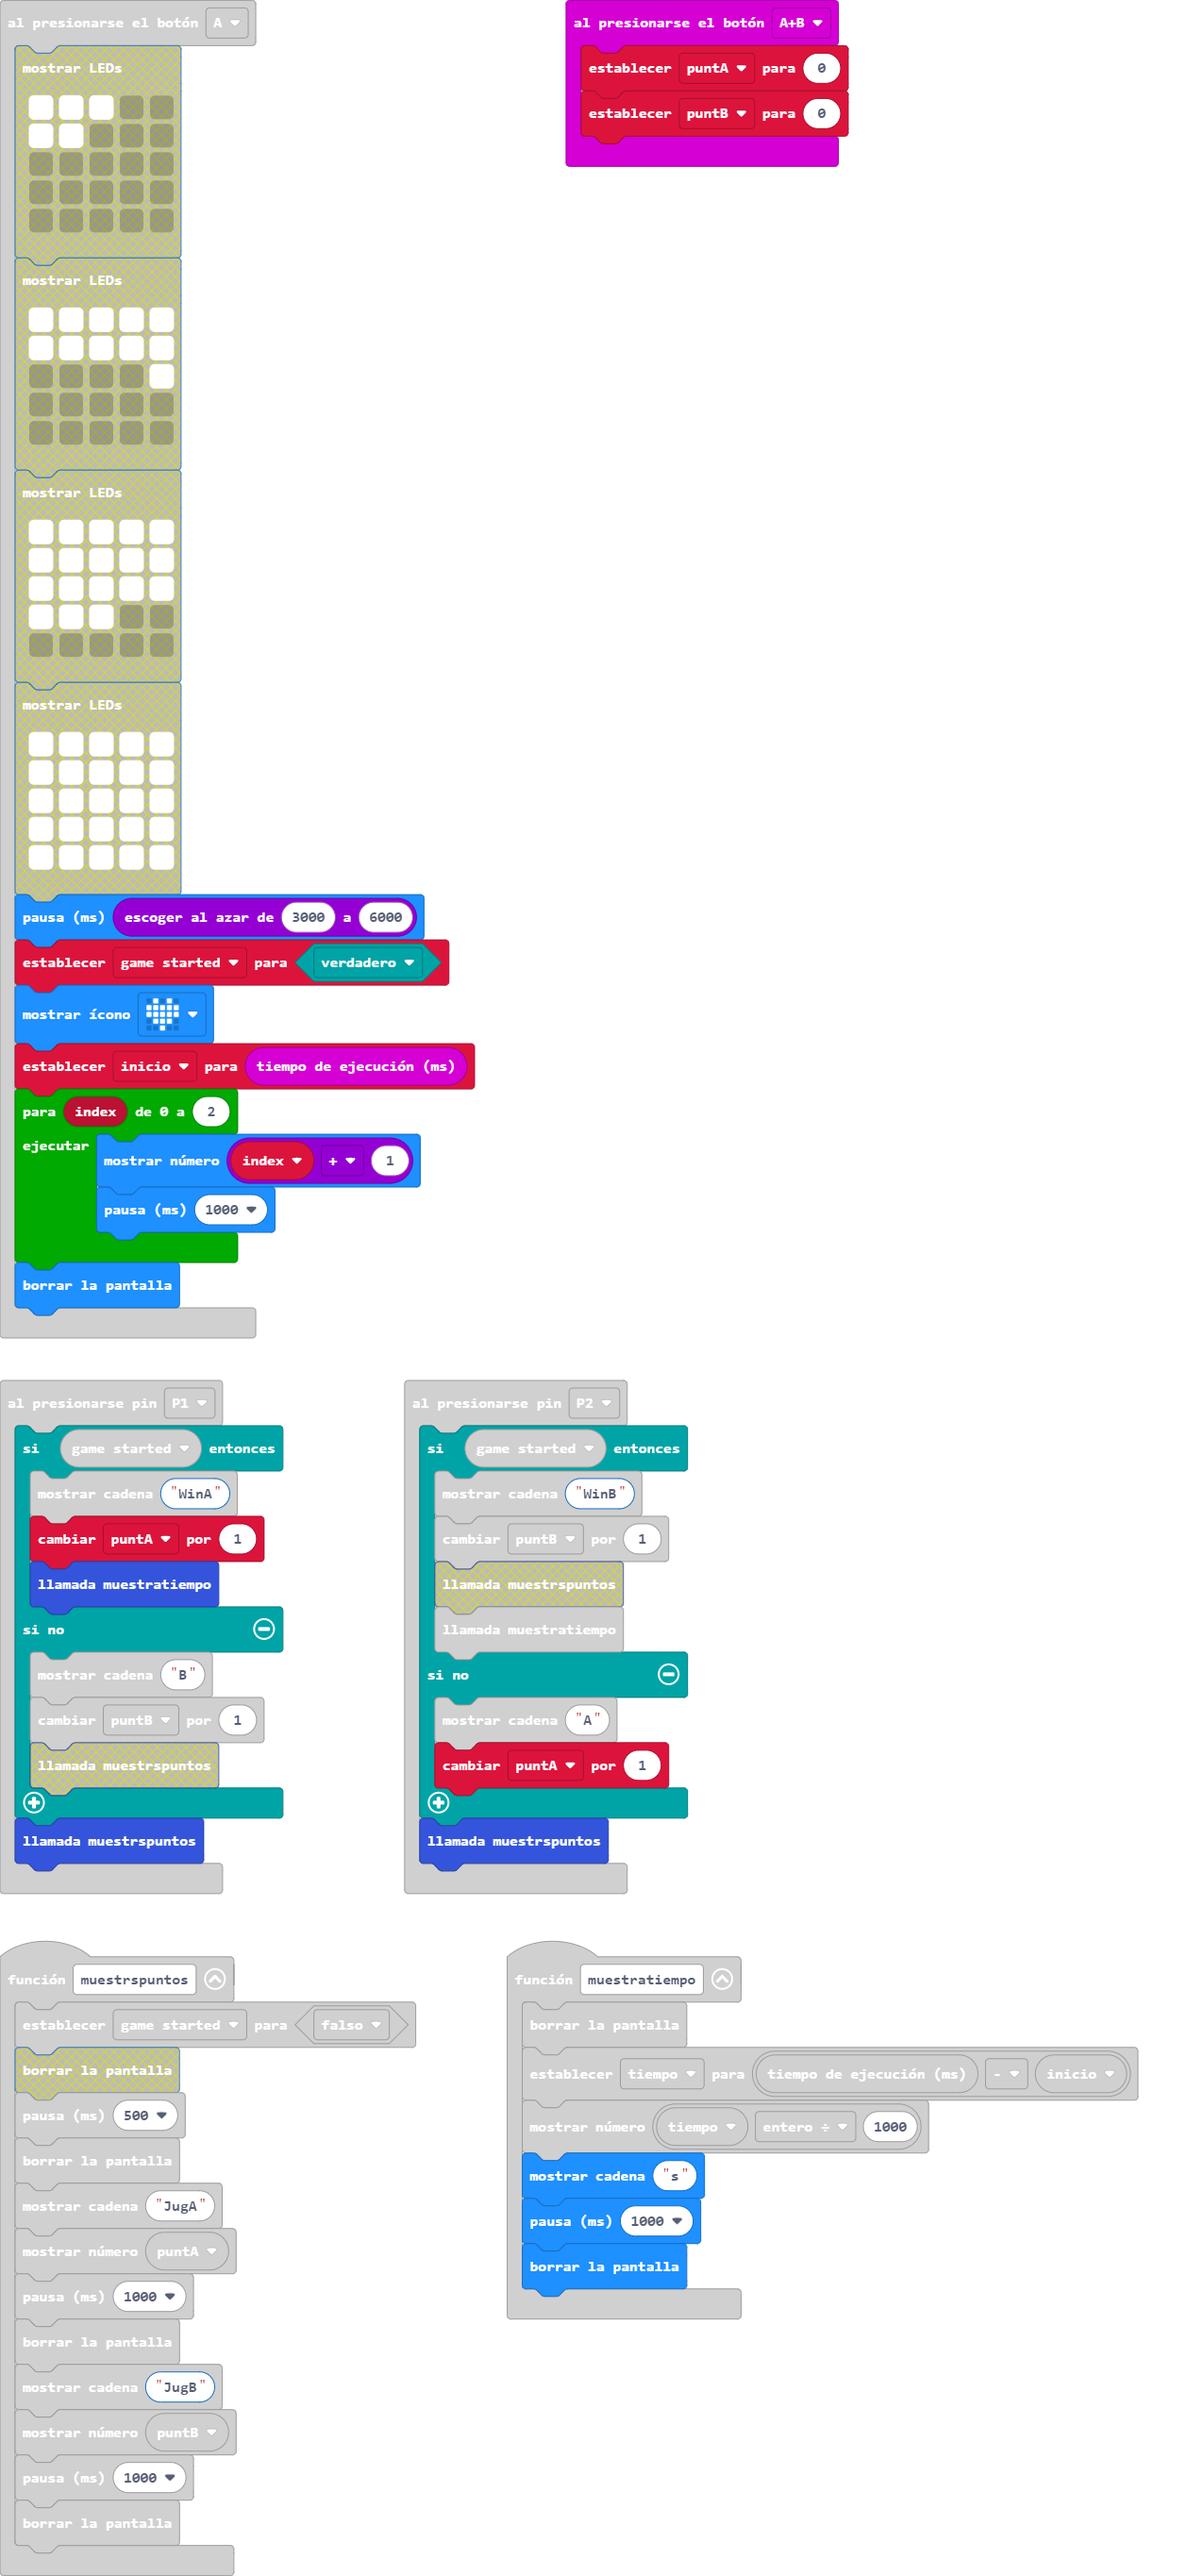
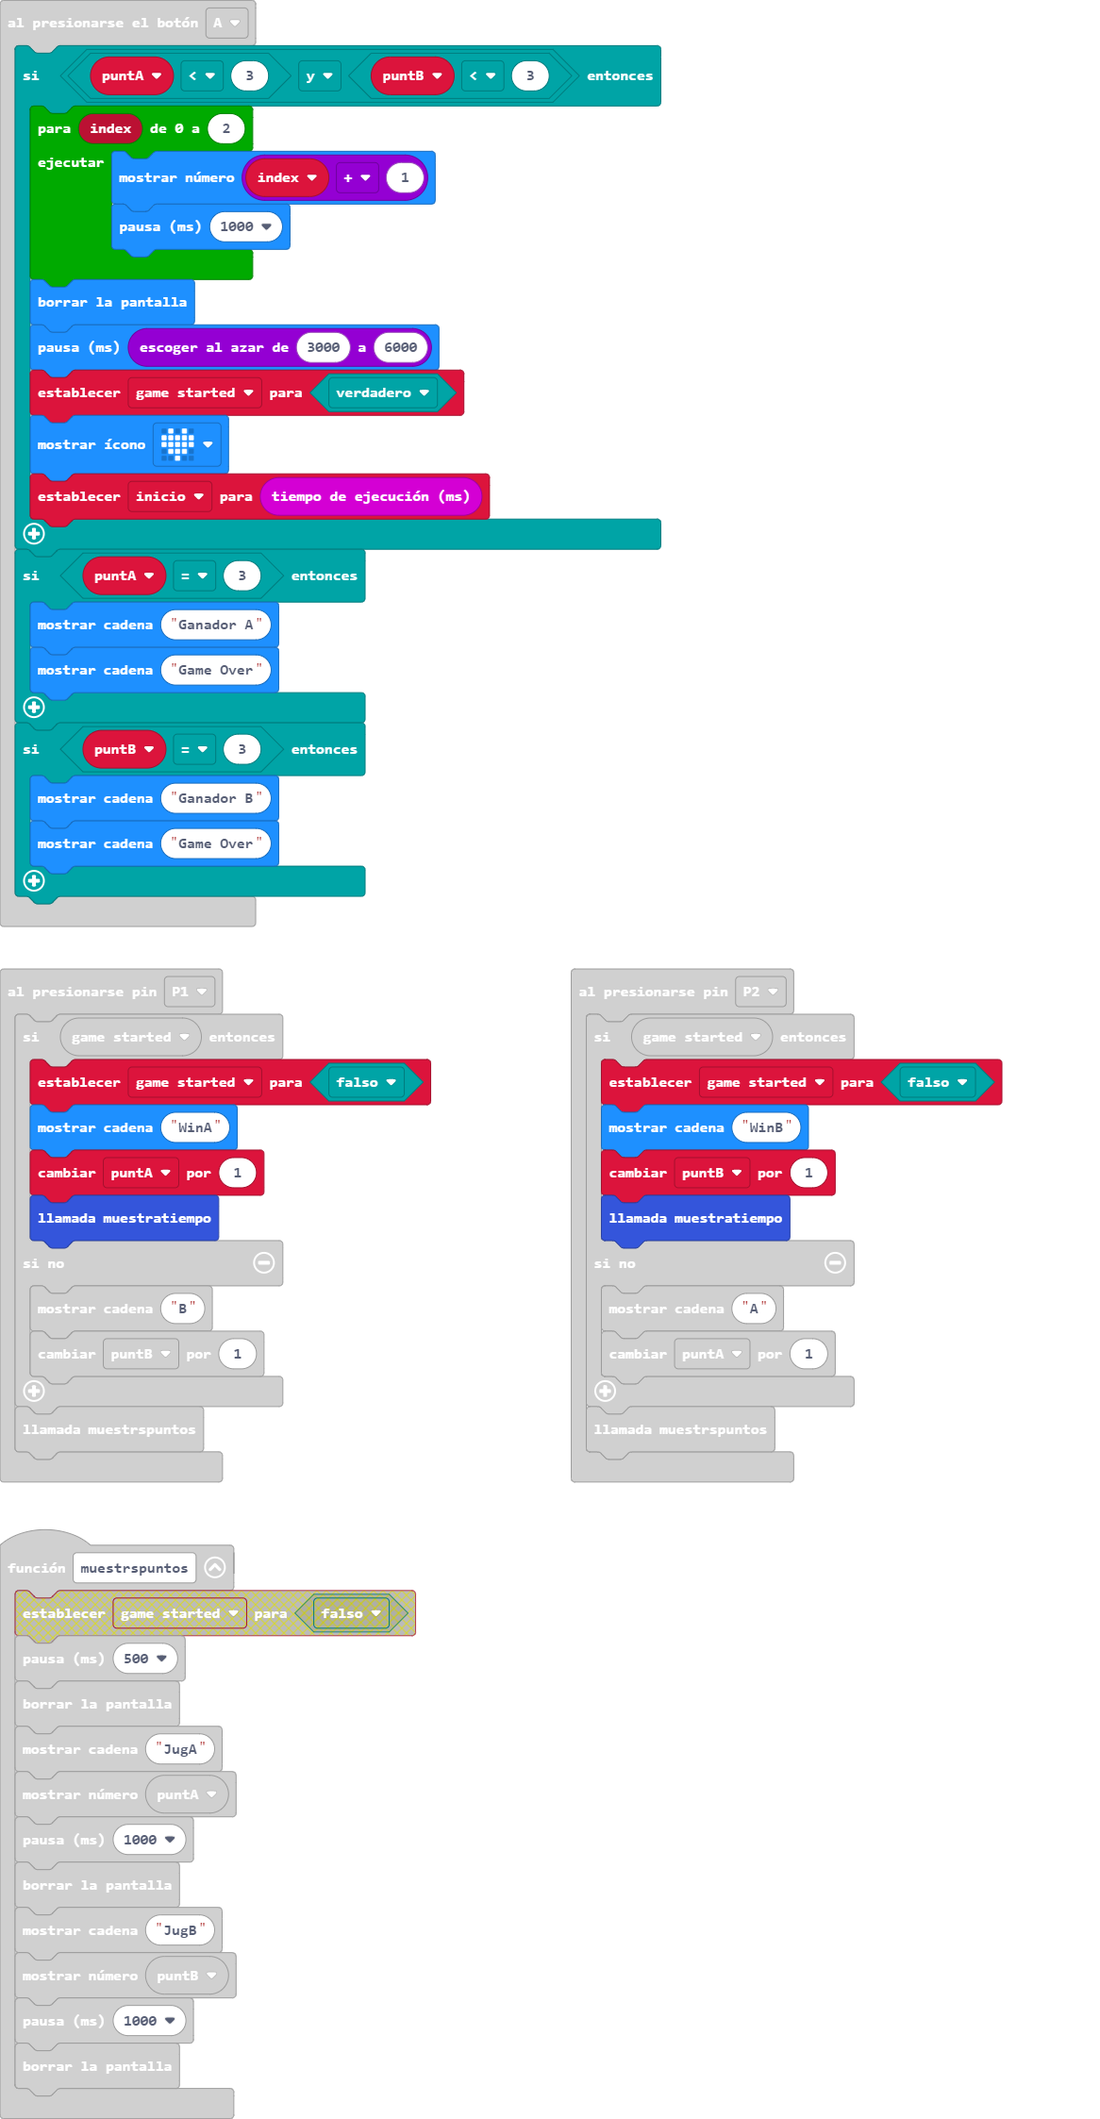
Actualizar main.blocks, main.ts

diff --git a/main.ts b/main.ts
@@ -1,16 +1,27 @@
 input.onButtonPressed(Button.A, function () {
-    for (let index = 0; index <= 2; index++) {
-        basic.showNumber(index + 1)
-        basic.pause(1000)
+    if (puntA < 3 && puntB < 3) {
+        for (let index = 0; index <= 2; index++) {
+            basic.showNumber(index + 1)
+            basic.pause(1000)
+        }
+        basic.clearScreen()
+        basic.pause(randint(3000, 6000))
+        game_started = true
+        basic.showIcon(IconNames.Heart)
+        inicio = input.runningTime()
     }
-    basic.clearScreen()
-    basic.pause(randint(3000, 6000))
-    game_started = true
-    basic.showIcon(IconNames.Heart)
-    inicio = input.runningTime()
+    if (puntA == 3) {
+        basic.showString("Ganador A")
+        basic.showString("Game Over")
+    }
+    if (puntB == 3) {
+        basic.showString("Ganador B")
+        basic.showString("Game Over")
+    }
 })
 input.onPinPressed(TouchPin.P2, function () {
     if (game_started) {
+        game_started = false
         basic.showString("WinB")
         puntB += 1
         muestratiempo()
@@ -21,7 +32,6 @@ input.onPinPressed(TouchPin.P2, function () {
     muestrspuntos()
 })
 function muestrspuntos () {
-    game_started = false
     basic.pause(500)
     basic.clearScreen()
     basic.showString("JugA")
@@ -39,6 +49,7 @@ input.onButtonPressed(Button.AB, function () {
 })
 input.onPinPressed(TouchPin.P1, function () {
     if (game_started) {
+        game_started = false
         basic.showString("WinA")
         puntA += 1
         muestratiempo()
